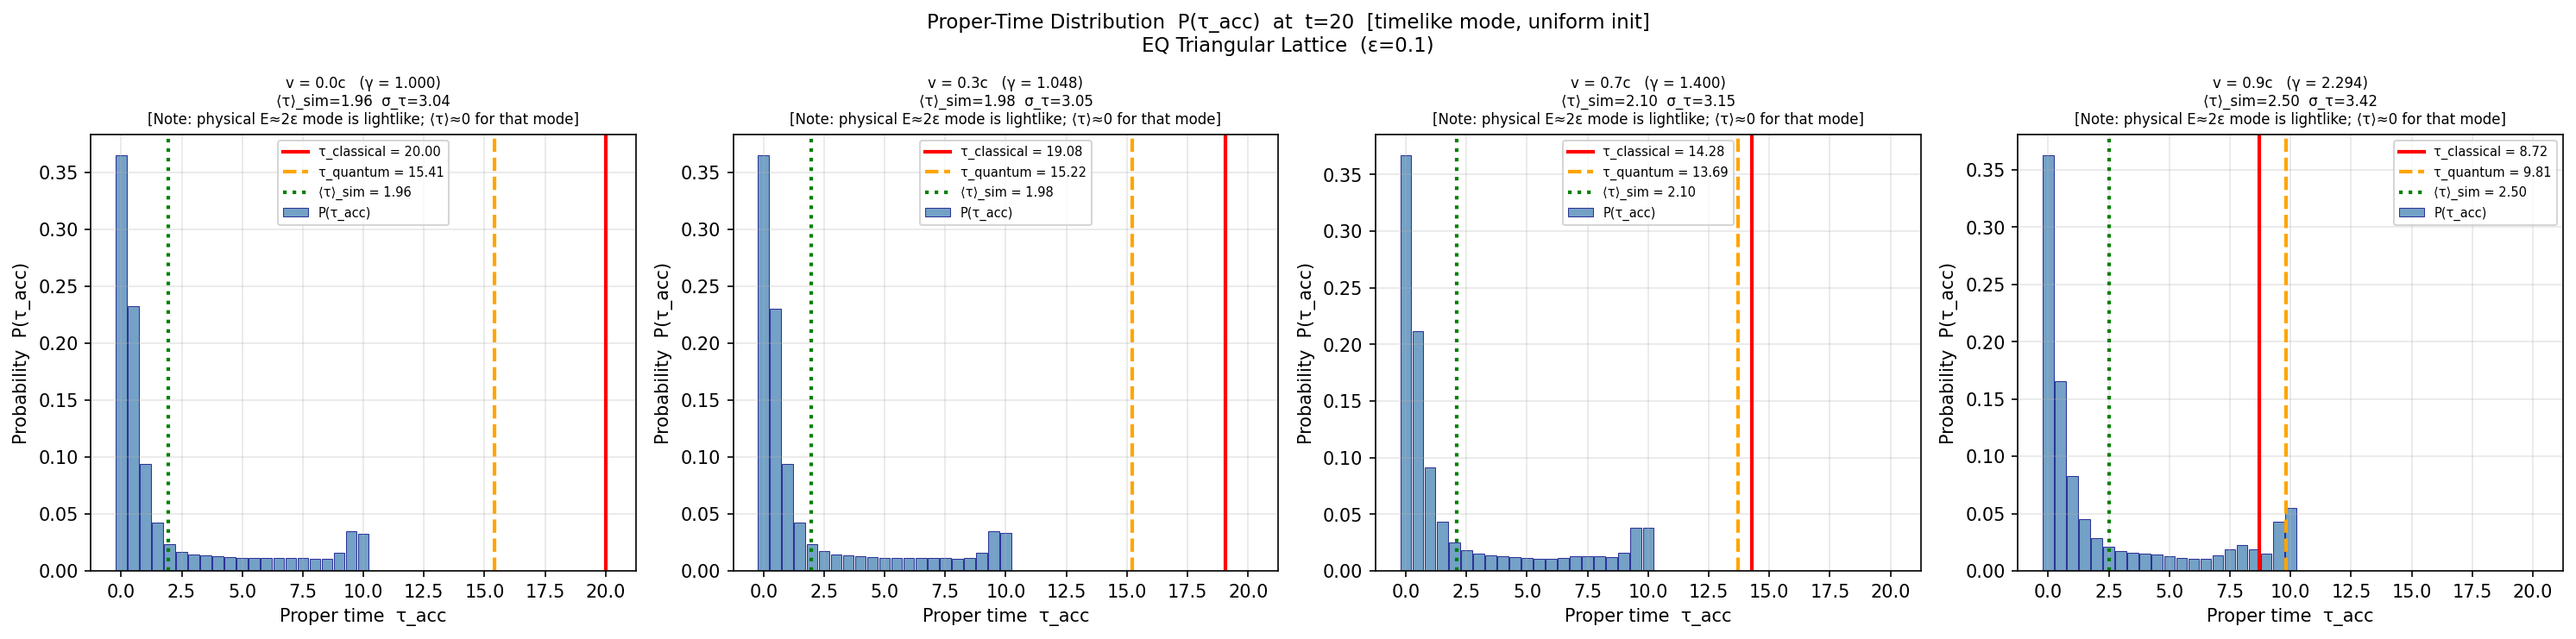
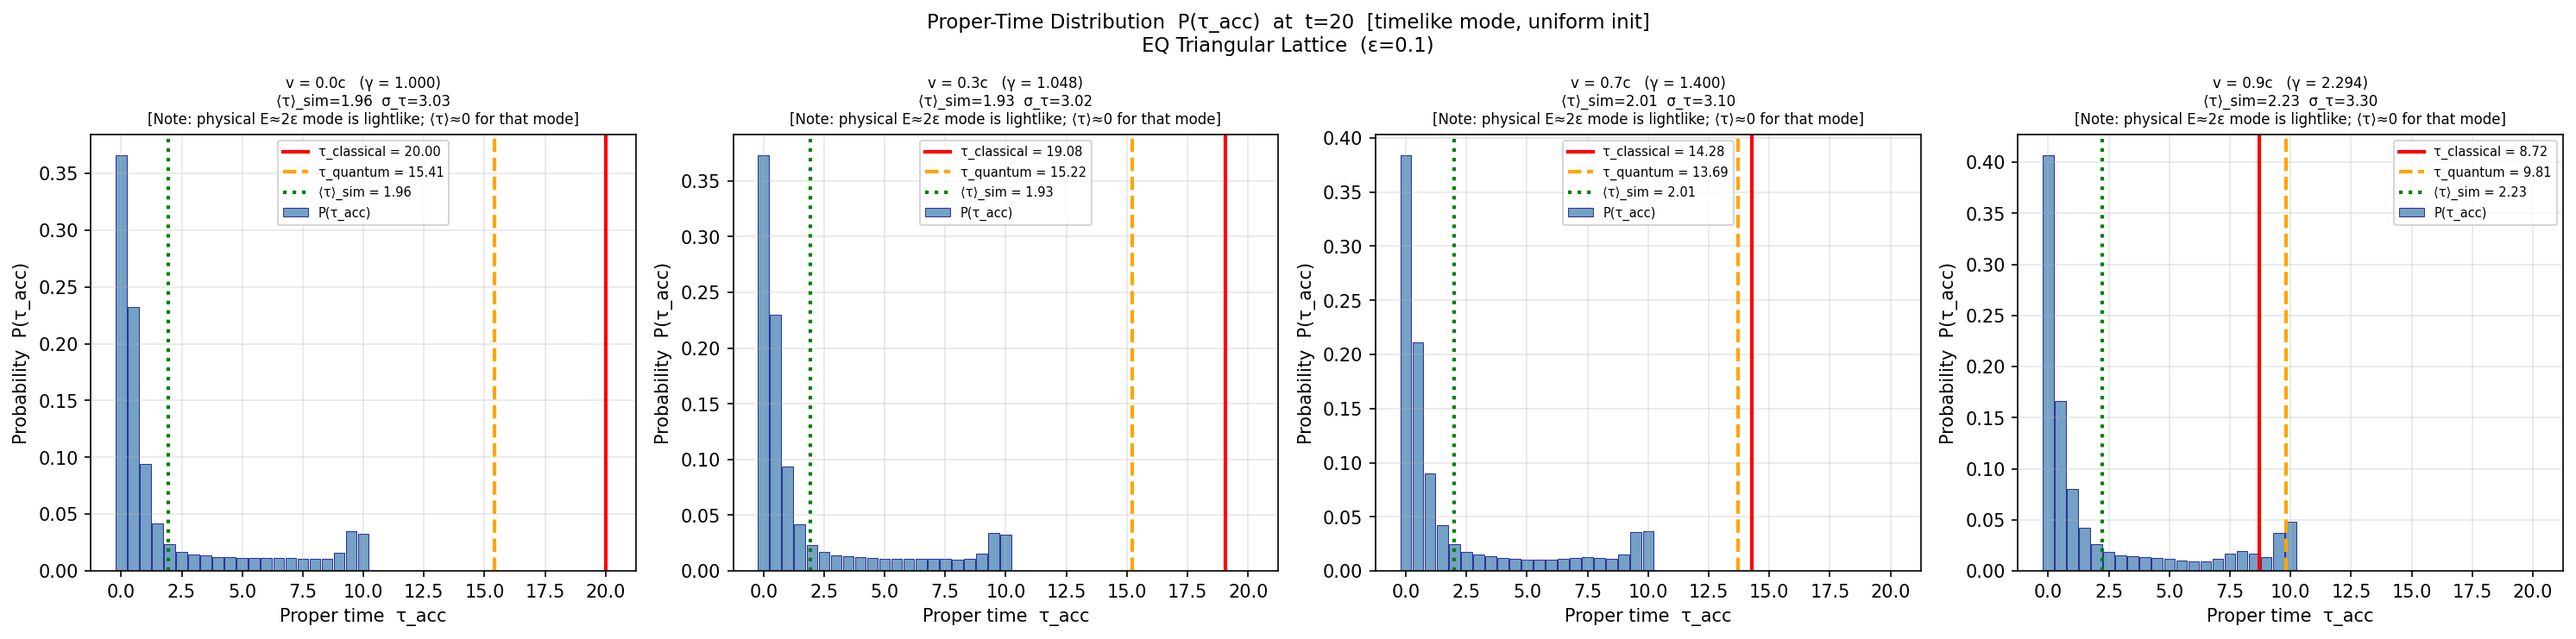
Add σ-convergence analysis: τ_quantum → τ_classical as σ_k/m → 0
Adaptive grid sizing (_grid_size) allows wider Gaussians (σ=20, 30)
without boundary truncation. σ-sweep shows monotone convergence:

  σ=8  (σ_k/m=0.627): τ_quantum deviates −23% from τ_classical at v=0
  σ=20 (σ_k/m=0.251): deviation shrinks to −7%
  σ=30 (σ_k/m=0.167): deviation shrinks to −3.6%

New Figure 5 (sigma_convergence.png) visualizes this convergence.
Updated RESULT_Proper_Time_1D_en.md with complete velocity tables for
all three σ values and convergence analysis.

https://claude.ai/code/session_01GXH54ErNWfR74et8hZ3DDf

diff --git a/quantum_proper_time.py b/quantum_proper_time.py
@@ -114,6 +114,17 @@ def momentum_for_vfrac(v_frac, m_phys):
     return m_phys * vf / (SQRT3 * np.sqrt(1.0 - vf**2))
 
 
+def _grid_size(T_phys, sigma, v_frac):
+    """Adaptive grid: 3σ envelope + v·c·T drift + margin, minimum 4T+1."""
+    x_drift = abs(v_frac) * C_LIGHT * T_phys           # physical drift
+    x_gauss = 3.0 * sigma                               # 3σ envelope width
+    xi_need = (x_drift + x_gauss) / SQRT3_2 + 10        # grid cells needed from centre
+    xi_min  = 2 * T_phys                                # causal minimum
+    xcenter = int(max(xi_need, xi_min)) + 1
+    Nx      = 2 * xcenter + 1
+    return Nx, xcenter
+
+
 # ── wave-packet simulation ────────────────────────────────────────────────────
 
 def simulate_eq_wp(T_phys, eps, sigma, v_frac):
@@ -141,8 +152,7 @@ def simulate_eq_wp(T_phys, eps, sigma, v_frac):
     vc_ref, vp_ref = phys_eigvec_full(k_phys, eps, m_phys)
 
     N_half  = 2 * T_phys
-    Nx      = 4 * T_phys + 1
-    xcenter = 2 * T_phys
+    Nx, xcenter = _grid_size(T_phys, sigma, v_frac)
     xi_arr  = np.arange(Nx) - xcenter                # grid indices relative to 0
     x_phys  = xi_arr * SQRT3_2                       # physical positions
 
@@ -210,8 +220,7 @@ def simulate_eq_tau(T_phys, eps, sigma, v_frac):
 
     N_half  = 2 * T_phys
     N_ns    = N_half + 1
-    Nx      = 4 * T_phys + 1
-    xcenter = 2 * T_phys
+    Nx, xcenter = _grid_size(T_phys, sigma, v_frac)
     xi_arr  = np.arange(Nx) - xcenter
     x_phys  = xi_arr * SQRT3_2
     tau_arr = np.arange(N_ns) * 0.5
@@ -609,55 +618,123 @@ def fig_proper_time_distribution(results_subset, T_phys, eps):
 
 
 
+def _print_table(results, label=''):
+    """Print a summary table for a set of velocity-sweep results."""
+    if label:
+        print(f'\n  {label}')
+    print(f'  {"v/c":>6} | {"τ_classical":>12} | {"τ_quantum":>10} | '
+          f'{"τ_phase":>10} | {"τ_dist":>8} | {"qt_vs_cl%":>10}')
+    print('  ' + '-' * 72)
+    for r in results:
+        dev = 100.0 * (r['tau_th_quantum'] - r['tau_th_classical']) / (r['tau_th_classical'] + 1e-30)
+        print(f'  {r["v_frac"]:>6.1f} | {r["tau_th_classical"]:>12.4f} | '
+              f'{r["tau_th_quantum"]:>10.4f} | {r["tau_phase"]:>10.4f} | '
+              f'{r["tau_dist"]:>8.4f} | {dev:>10.2f}%')
+
+
+# ── Figure 5: σ comparison dilation curve ────────────────────────────────────
+
+def fig_sigma_comparison(all_sigma_results, T_phys, eps):
+    """
+    τ_quantum/T vs v/c for multiple σ values — shows convergence to classical SR.
+    """
+    v_fine = np.linspace(0, 0.95, 200)
+    tau_cl_fine = np.sqrt(1.0 - v_fine**2)
+
+    fig, (ax1, ax2) = plt.subplots(2, 1, figsize=(10, 9),
+                                   gridspec_kw={'height_ratios': [3, 1]})
+    fig.suptitle(
+        f'σ Convergence:  τ_quantum/T  →  √(1−v²/c²)  as  σ_k/m → 0\n'
+        f'EQ Triangular Lattice  (ε={eps},  T={T_phys})',
+        fontsize=11)
+
+    ax1.plot(v_fine, tau_cl_fine, 'k-', lw=2.5,
+             label='Classical SR:  √(1−v²/c²)')
+
+    colors = ['#e41a1c', '#377eb8', '#4daf4a', '#984ea3']
+    markers = ['o', 's', 'D', '^']
+    for i, (sigma, results) in enumerate(all_sigma_results):
+        v   = np.array([r['v_frac'] for r in results])
+        tqt = np.array([r['tau_th_quantum'] for r in results])
+        tcl = np.array([r['tau_th_classical'] for r in results])
+        sk  = 1.0 / sigma
+        m   = m_phys_eq(eps)
+        c   = colors[i % len(colors)]
+        mk  = markers[i % len(markers)]
+        ax1.plot(v, tqt / T_phys, f'{mk}-', color=c, ms=8, lw=1.3,
+                 label=f'σ={sigma}  (σ_k/m={sk/m:.3f})')
+
+        # Residuals: (τ_quantum − τ_classical) / τ_classical
+        res = 100.0 * (tqt - tcl) / (tcl + 1e-30)
+        ax2.plot(v, res, f'{mk}-', color=c, ms=6, lw=1.2,
+                 label=f'σ={sigma}')
+
+    ax1.set_ylabel('τ / T')
+    ax1.set_xlim(-0.02, 1.0); ax1.set_ylim(-0.02, 1.1)
+    ax1.legend(fontsize=9); ax1.grid(alpha=0.3)
+
+    ax2.axhline(0, color='k', lw=1)
+    ax2.set_xlabel('v / c')
+    ax2.set_ylabel('(τ_quantum − τ_classical) / τ_classical  [%]')
+    ax2.set_title('Residuals: quantum vs classical proper time', fontsize=9)
+    ax2.set_xlim(-0.02, 1.0); ax2.legend(fontsize=8); ax2.grid(alpha=0.3)
+
+    plt.tight_layout()
+    plt.savefig('sigma_convergence.png', dpi=150, bbox_inches='tight')
+    print('Saved sigma_convergence.png')
+    plt.close()
+
+
 # ── main ──────────────────────────────────────────────────────────────────────
 
 if __name__ == '__main__':
-    EPS   = 0.1
-    T     = 20
-    SIGMA = 8.0
+    EPS     = 0.1
+    T       = 20
+    SIGMA   = 8.0
+    SIGMAS  = [8.0, 20.0, 30.0]
     V_FRACS = [0.0, 0.1, 0.3, 0.5, 0.7, 0.9]
 
     m_phys = m_phys_eq(EPS)
     print(f'=== EQ Triangular Lattice — Proper Time Investigation ===')
-    print(f'  ε={EPS}  T={T}  σ={SIGMA}  c=√3={C_LIGHT:.4f}')
+    print(f'  ε={EPS}  T={T}  c=√3={C_LIGHT:.4f}')
     print(f'  m_phys = {m_phys:.5f}  (≈ 2ε = {2*EPS:.3f},  NOT ε — same scaling as 2+1D hexagonal)')
-    print(f'  σ_k = 1/σ = {1/SIGMA:.4f},  σ_k/m = {1/(SIGMA*m_phys):.3f}  (broad packet: σ_k ≳ m)')
     print()
     print('  Physical eigenvector (E≈2ε, k=0) has |vc_straight|=0 → purely lightlike mode.')
     print('  τ_dist ≈ 2 is from the TIMELIKE mode (E≈ε) via uniform initialisation.')
     print('  τ_quantum = T·m·⟨1/E(k)⟩_G is the correct QM proper-time prediction.')
 
     # ── Figure 1: worldlines ──────────────────────────────────────────────────
-    print(f'\n=== Fig 1: Worldlines heatmap (v=0 and v=0.5c) ===')
+    print(f'\n=== Fig 1: Worldlines heatmap (v=0 and v=0.5c)  [σ={SIGMA}] ===')
     fig_worldlines(T, EPS, SIGMA)
 
     # ── Figure 2: phase vs time ───────────────────────────────────────────────
-    print(f'\n=== Fig 2: Phase vs time ===')
+    print(f'\n=== Fig 2: Phase vs time  [σ={SIGMA}] ===')
     fig_phase_vs_time(T, EPS, SIGMA, v_fracs_show=(0.0, 0.5, 0.9))
 
-    # ── Velocity sweep ────────────────────────────────────────────────────────
-    print(f'\n=== Velocity sweep (τ distribution for each v) ===')
-    results = velocity_sweep(T, EPS, SIGMA, V_FRACS)
+    # ── σ sweep ──────────────────────────────────────────────────────────────
+    all_sigma_results = []
+    for sig in SIGMAS:
+        sk = 1.0 / sig
+        print(f'\n=== Velocity sweep  σ={sig}  (σ_k/m={sk/m_phys:.3f}) ===')
+        res = velocity_sweep(T, EPS, sig, V_FRACS)
+        all_sigma_results.append((sig, res))
+        _print_table(res, label=f'σ={sig}  σ_k/m={sk/m_phys:.3f}')
 
-    # Print summary table
-    print()
-    print(f'{"v/c":>6} | {"τ_classical":>12} | {"τ_quantum":>10} | '
-          f'{"τ_phase":>10} | {"τ_dist":>8} | {"phase_err%":>10}')
-    print('-' * 70)
-    for r in results:
-        err = 100.0 * (r['tau_phase'] - r['tau_th_quantum']) / (r['tau_th_quantum'] + 1e-30)
-        print(f'{r["v_frac"]:>6.1f} | {r["tau_th_classical"]:>12.4f} | '
-              f'{r["tau_th_quantum"]:>10.4f} | {r["tau_phase"]:>10.4f} | '
-              f'{r["tau_dist"]:>8.4f} | {err:>10.2f}%')
+    # Use σ=8 for backward-compatible figures 3 & 4
+    results_s8 = all_sigma_results[0][1]
 
-    # ── Figure 3: dilation curve ──────────────────────────────────────────────
-    print(f'\n=== Fig 3: Dilation curve ===')
-    fig_dilation_curve(results, T, EPS)
+    # ── Figure 3: dilation curve (σ=8, original) ─────────────────────────────
+    print(f'\n=== Fig 3: Dilation curve  [σ={SIGMA}] ===')
+    fig_dilation_curve(results_s8, T, EPS)
 
-    # ── Figure 4: proper-time histograms ─────────────────────────────────────
-    print(f'\n=== Fig 4: Proper-time distributions ===')
-    subset = [r for r in results if r['v_frac'] in (0.0, 0.3, 0.7, 0.9)]
+    # ── Figure 4: proper-time histograms (σ=8) ──────────────────────────────
+    print(f'\n=== Fig 4: Proper-time distributions  [σ={SIGMA}] ===')
+    subset = [r for r in results_s8 if r['v_frac'] in (0.0, 0.3, 0.7, 0.9)]
     fig_proper_time_distribution(subset, T, EPS)
+
+    # ── Figure 5: σ convergence ──────────────────────────────────────────────
+    print(f'\n=== Fig 5: σ convergence (σ={SIGMAS}) ===')
+    fig_sigma_comparison(all_sigma_results, T, EPS)
 
     print('\nDone.')
 
